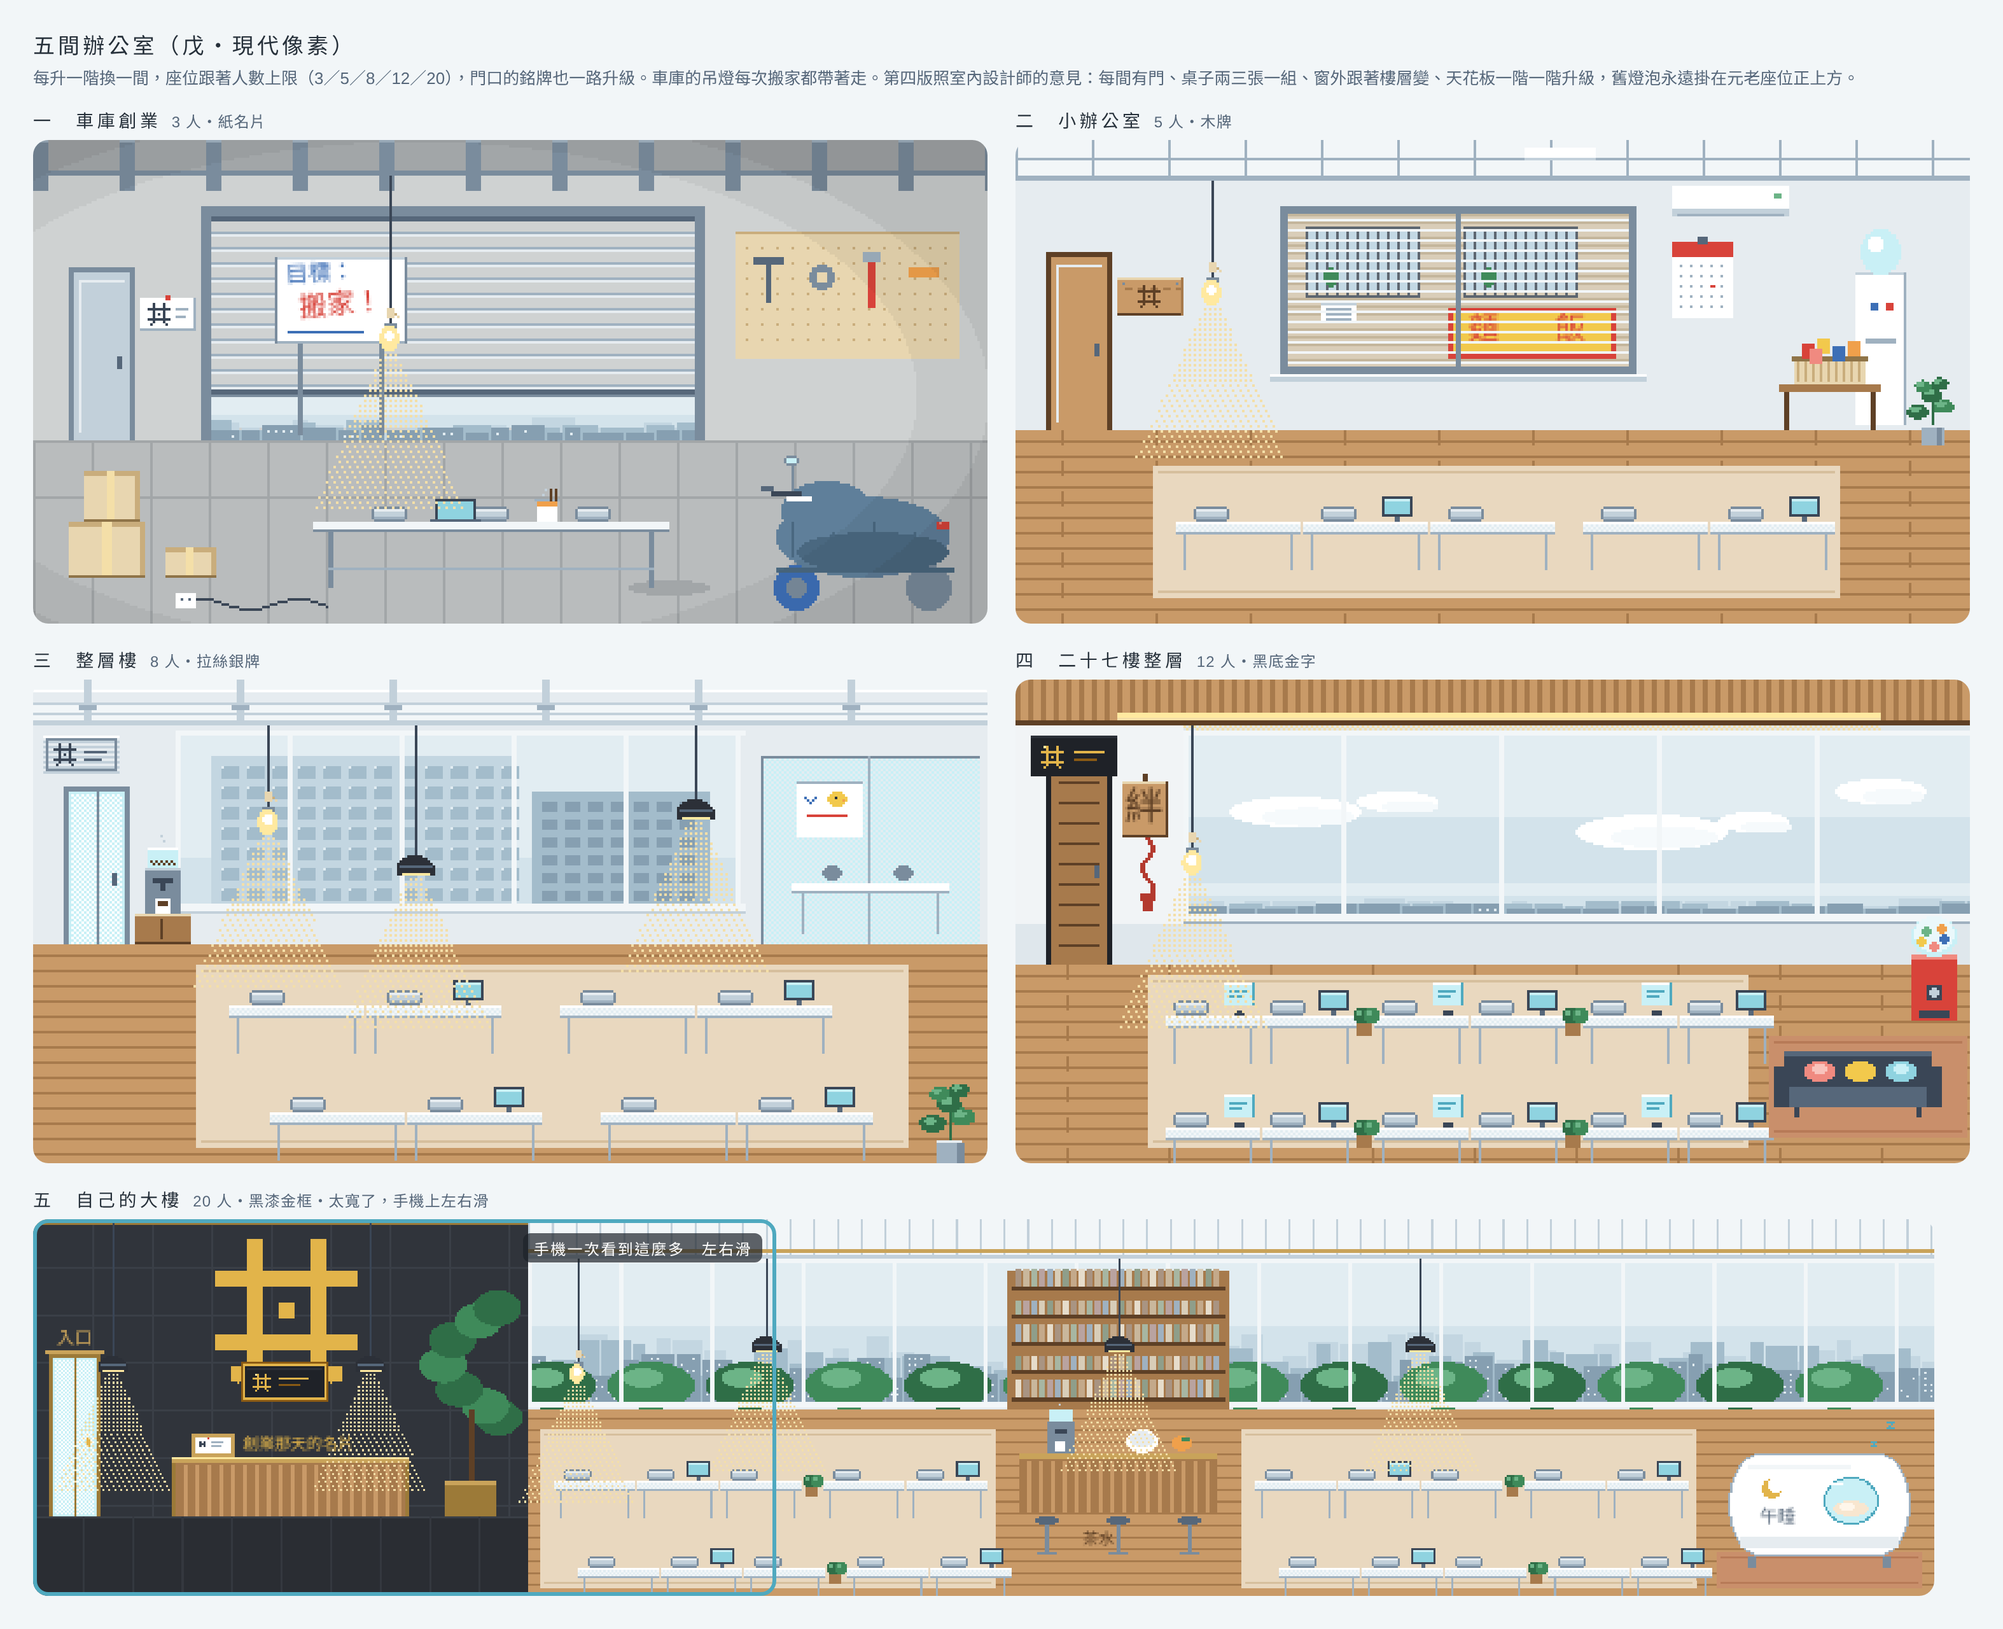
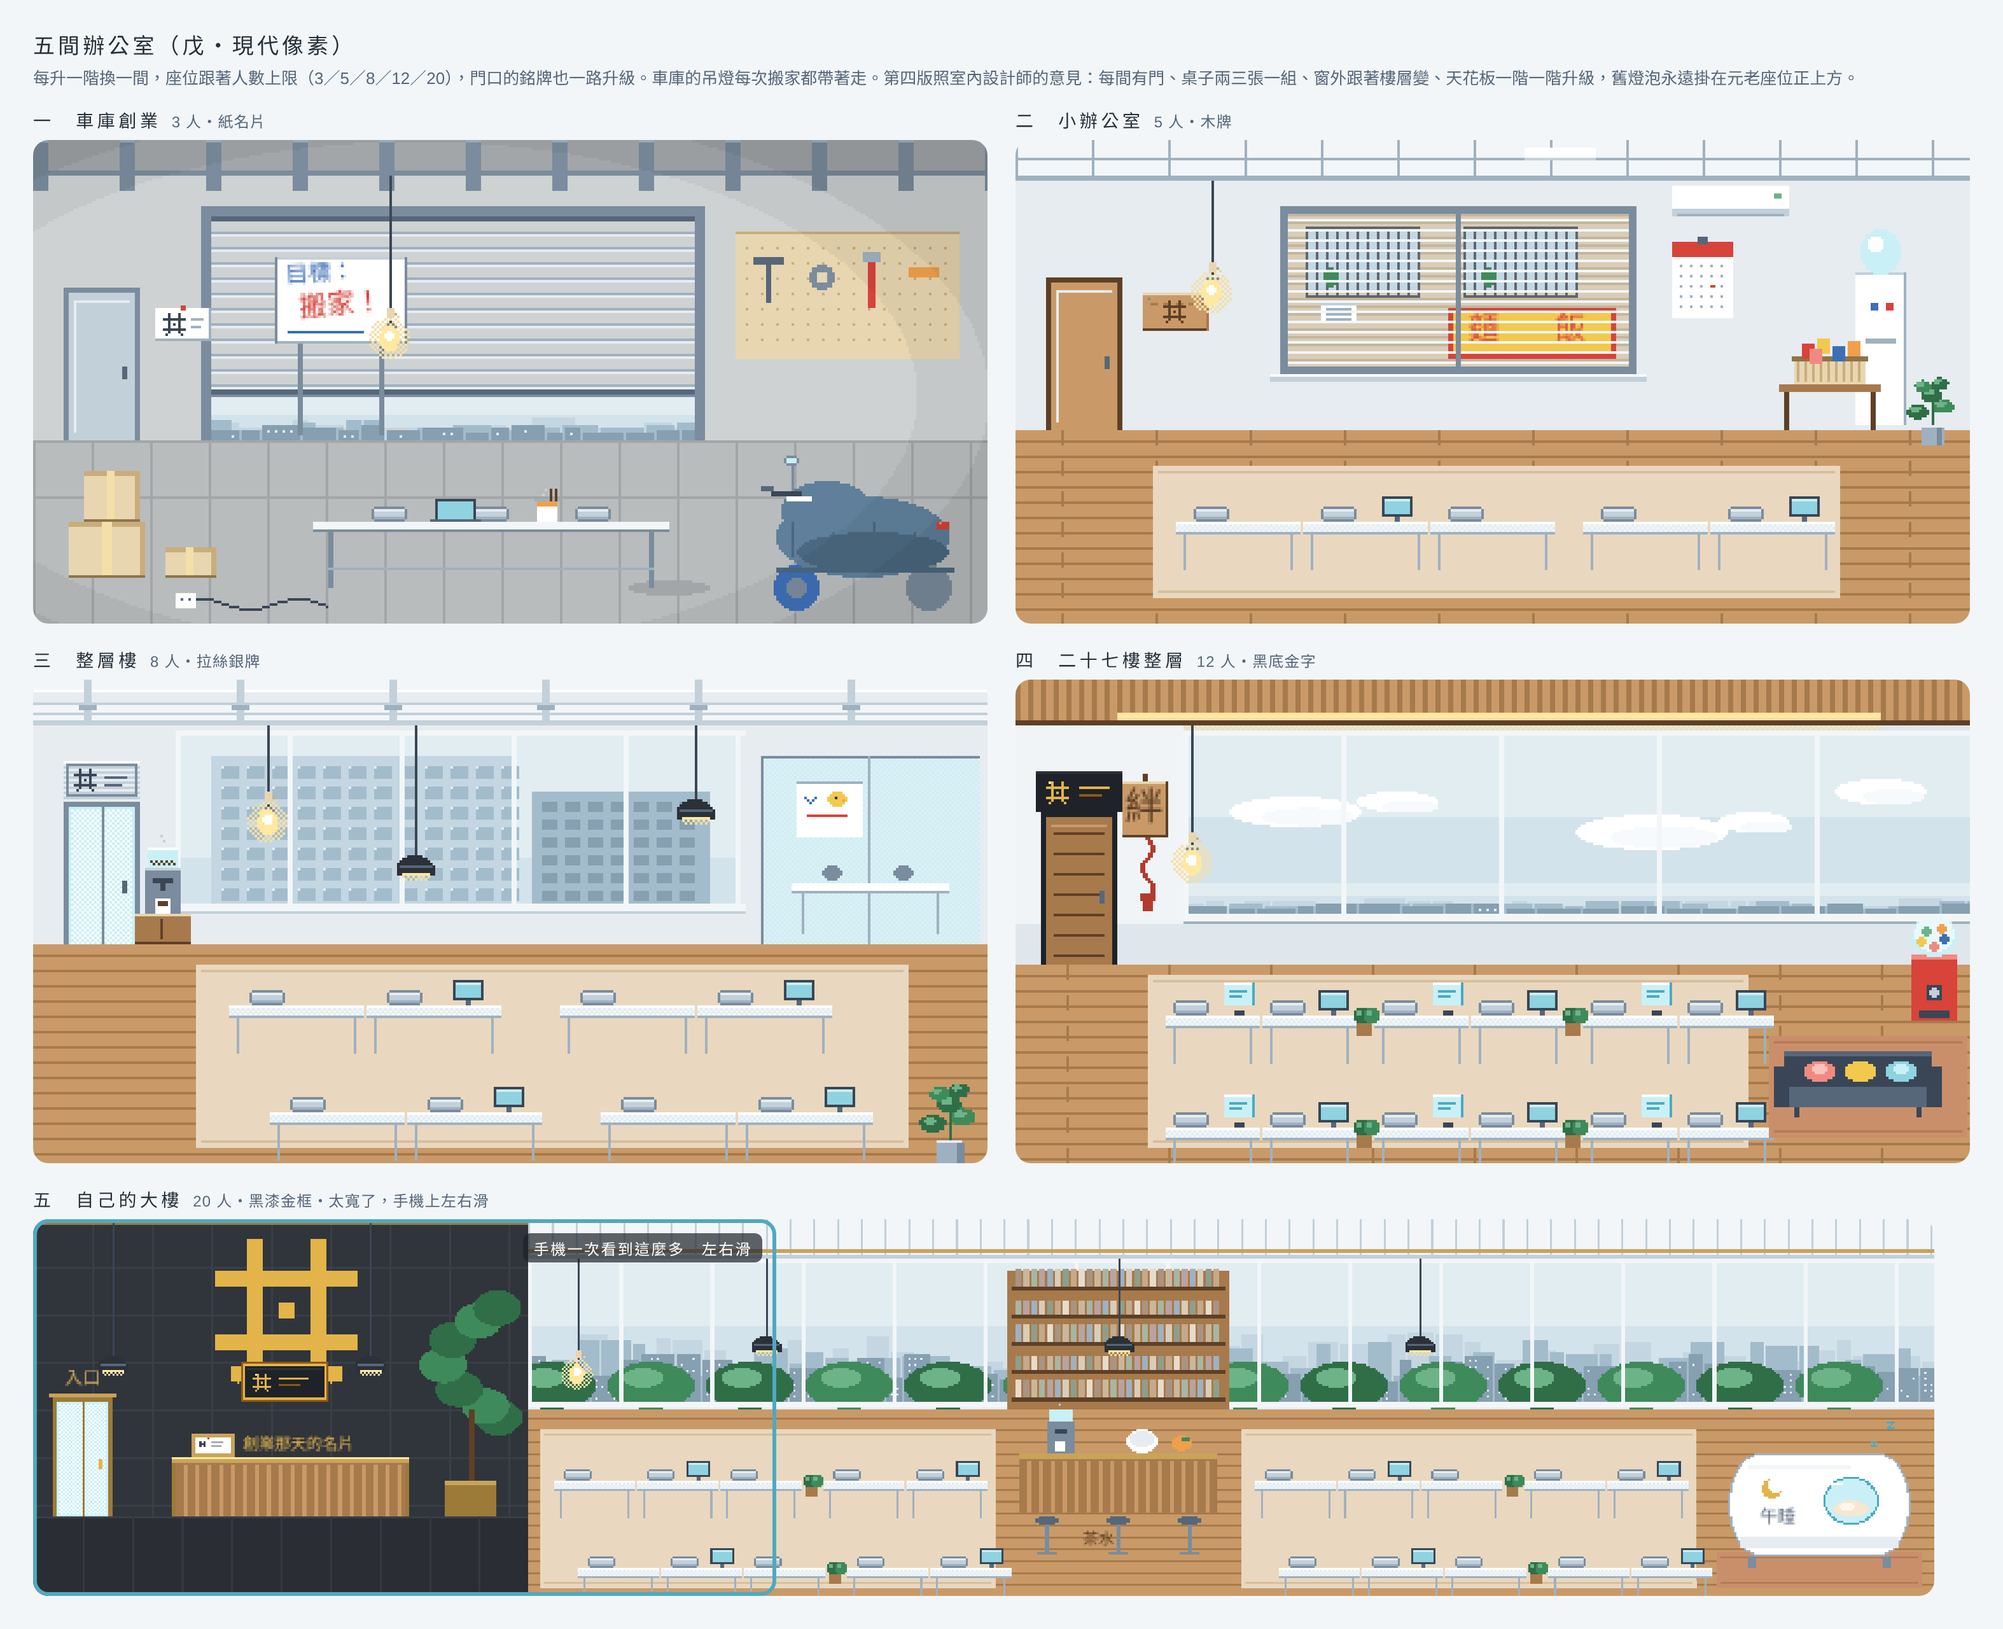
docs: offices door proportions, remove light cones
Claude-Session: https://claude.ai/code/session_01DfELKGAuUeHGLNNJha5AAX

diff --git a/docs/plans/company/office5.html b/docs/plans/company/office5.html
@@ -57,9 +57,10 @@ function stage(id, draw) {
     if (kind === 5) { R(a, b, 44, 20, C.au0); R(a + 1, b + 1, 42, 18, C.au1); R(a + 2, b + 2, 40, 16, C.bk); R(a + 3, b + 3, 38, 1, C.bk2); glyph(DON, a + 6, b + 6, C.au1); R(a + 19, b + 8, 15, 1, C.au1); R(a + 19, b + 11, 11, 1, C.au0);
       [[-3, 9], [44, 9]].forEach(([dx, dy]) => { px(a + dx + 1, b + dy - 1, C.au1); R(a + dx, b + dy, 3, 1, C.au1); px(a + dx + 1, b + dy + 1, C.au1); }); px(a + 7, b + 6, C.au2); }
   };
-  const cone = (lx, y0, n) => { for (let j = y0; j < y0 + n; j++) { const half = 3 + (j - y0) * .45, step = j - y0 < 30 ? 2 : 3; for (let i = Math.round(lx - half); i <= lx + half; i++) if ((i + j) % step === 0 && j % 2 === 0) px(i, j, C.warm); } };
-  const newLamp = (lx, top, len) => { R(lx, top, 1, len, C.ink2); el(lx, top + len + 3, 7, 4, C.bk2); R(lx - 7, top + len + 3, 15, 4, C.bk2); R(lx - 6, top + len + 3, 13, 1, C.ink3); R(lx - 5, top + len + 6, 11, 1, C.au2); cone(lx, top + len + 8, 60); };   // 新的吊燈：黑色燈罩
-  const lamp = (lx, top, len) => { R(lx, top, 1, len, C.ink2); R(lx - 2, top + len - 2, 5, 3, C.g1); R(lx - 1, top + len - 8, 3, 4, C.kr); px(lx + 2, top + len - 6, C.kr2); px(lx + 3, top + len - 5, C.kr); el(lx, top + len + 4, 4, 5, C.au2); el(lx, top + len + 3, 2, 2, C.wh);   // 車庫那顆舊燈泡（電線纏一圈牛皮紙膠帶），每次搬家都帶走
+  const halo = (cx, cy, r) => { for (let j = Math.floor(cy - r); j <= cy + r; j++) for (let i = Math.floor(cx - r); i <= cx + r; i++) { const d = Math.hypot(i + .5 - cx, j + .5 - cy); if (d <= r && d > 4 && (i + j) % 2 === 0) px(i, j, C.warm); } };   // 燈泡旁邊一小圈圓圓的光暈
+  const cone = () => {};   // 往下打的點點光線不畫了（使用者：燈光的光線很多餘）
+  const newLamp = (lx, top, len) => { R(lx, top, 1, len, C.ink2); el(lx, top + len + 3, 7, 4, C.bk2); R(lx - 7, top + len + 3, 15, 4, C.bk2); R(lx - 6, top + len + 3, 13, 1, C.ink3); R(lx - 5, top + len + 6, 11, 1, C.au2); dither(lx - 5, top + len + 7, 11, 2, C.warm); };   // 新的吊燈：黑色燈罩
+  const lamp = (lx, top, len) => { R(lx, top, 1, len, C.ink2); R(lx - 2, top + len - 2, 5, 3, C.g1); R(lx - 1, top + len - 8, 3, 4, C.kr); px(lx + 2, top + len - 6, C.kr2); px(lx + 3, top + len - 5, C.kr); halo(lx, top + len + 4, 8); el(lx, top + len + 4, 4, 5, C.au2); el(lx, top + len + 3, 2, 2, C.wh);   // 車庫那顆舊燈泡（電線纏一圈牛皮紙膠帶），每次搬家都帶走
     cone(lx, top + len + 9, 61); };
   const txt = (str, a, b, size, col, rot = 0) => { x.save(); x.translate(a, b); x.rotate(rot); x.fillStyle = col; x.font = `${size}px "Noto Sans TC", sans-serif`; x.textBaseline = 'top'; x.fillText(str, 0, 0); x.restore(); };
   const rug = (a, b, w, h, c1, c2) => { R(a, b, w, h, c1); R(a + 2, b + 2, w - 4, 1, c2); R(a + 2, b + h - 3, w - 4, 1, c2); };
@@ -71,7 +72,7 @@ function stage(id, draw) {
 const C2 = { ap: '#d9cdb8', ap2: '#c4b69c', grill: '#5d6670', tarp: '#5f7f9a', tarp2: '#4a6880', tire: '#2c3038', stone: '#30343b', stone2: '#3a3f47', brass: '#c9a35a', brass2: '#9c7a38' };
 const kit = K => { const { R, px, el, checker, dither, glyph, cushion, glassDesk, monitor, x, W } = K;
   return {
-    door: (a, top, bot, style) => { const w = 22;   // 門：框＋門板＋把手
+    door: (a, top0, bot, style) => { const w = 26, top = bot - 58;   // 門：框＋門板＋把手；固定正常比例（使用者：門比例很怪，原本又窄又高像置物櫃）
       const fr = style === 1 ? C.g1 : style === 2 ? C.wd0 : style === 3 ? C.g1 : style === 4 ? C.bk : C2.brass2, pn = style === 1 ? C.g3 : style === 2 ? C.wd : style === 3 ? C.cy2 : style === 4 ? C.wd2 : C.cy2;
       R(a - 2, top - 2, w + 4, bot - top + 2, fr); R(a, top, w, bot - top, pn);
       if (style === 3 || style === 5) { dither(a + 1, top + 1, w - 2, bot - top - 2, C.wh); R(a + w / 2, top, 1, bot - top, fr); } else if (style === 4) { R(a + 2, top + 3, w - 4, 1, C.wd); for (let j = top + 6; j < bot - 3; j += 8) R(a + 3, j, w - 6, 1, C.wd0); } else { R(a + 2, top + 3, w - 4, 1, C.g4); R(a + 2, top + 3, 1, bot - top - 6, C.g4); }
@@ -92,7 +93,7 @@ stage('s1', K => { const { R, px, el, checker, dither, city, cushion, sign, txt,
   R(66, 26, 198, 4, C.g1); R(66, 26, 4, 92, C.g1); R(260, 26, 4, 92, C.g1); R(70, 30, 190, 2, C.ink3);
   city(70, 100, 190, 18, 7); R(70, 98, 190, 2, C.ink3); R(70, 100, 190, 1, C.g1);
   R(0, 0, W, 12, C.cn2); for (let i = 0; i < W; i += 34) { R(i, 0, 6, 20, C.g1); R(i, 0, 6, 1, C.g2); } R(0, 12, W, 2, C.g1);   // 裸露的低樑
-  Q.door(16, 52, 118, 1); sign(42, 62, 1);   // 側門＋門邊的紙名片
+  Q.door(14, 52, 118, 1); sign(48, 66, 1);   // 側門＋門邊的紙名片
   R(0, 118, W, 72, C.cn); for (let i = 0; i < W; i += 23) R(i, 118, 1, 72, C.cn2); R(0, 118, W, 1, C.cn2); R(0, 140, W, 1, C.cn2);
   el(250, 176, 16, 3, C.cn2);
   R(276, 36, 88, 50, C.kr); R(276, 36, 88, 1, C.kr2); for (let j = 42; j < 84; j += 6) for (let i = 280; i < 362; i += 6) px(i, j, C.kr2);   // 洞洞板工具牆
@@ -109,7 +110,7 @@ stage('s1', K => { const { R, px, el, checker, dither, city, cushion, sign, txt,
   R(198, ty - 8, 8, 8, C.wh); R(198, ty - 8, 8, 2, C.o2); R(197, ty - 9, 10, 1, C.g2); R(203, ty - 13, 1, 5, C.wd0); R(205, ty - 13, 1, 5, C.wd0); px(200, ty - 11, C.g3); px(201, ty - 13, C.g3);
   for (let i = 60; i < 116; i++) px(i, 182 + Math.round(Math.sin(i / 6) * 2), C.ink2); R(56, 178, 8, 6, C.wh); px(58, 180, C.ink3); px(61, 180, C.ink3);
   Q.vignette(150, 100, 70, 130, .74);   // 四角壓暗，燈泡那一圈最亮
-  R(140, 14, 1, 60, C.ink2); R(138, 72, 5, 3, C.g1); R(139, 66, 3, 4, C.kr); px(142, 68, C.kr2); px(143, 69, C.kr); el(140, 78, 4, 5, C.au2); el(140, 77, 2, 2, C.wh); cone(140, 84, 62);   // 舊燈泡：元老位正上方
+  R(140, 14, 1, 60, C.ink2); R(138, 72, 5, 3, C.g1); R(139, 66, 3, 4, C.kr); px(142, 68, C.kr2); px(143, 69, C.kr); for (let j = 70; j <= 86; j++) for (let i = 132; i <= 148; i++) { const d = Math.hypot(i + .5 - 140, j + .5 - 78); if (d <= 8 && d > 4 && (i + j) % 2 === 0) px(i, j, C.warm); } el(140, 78, 4, 5, C.au2); el(140, 77, 2, 2, C.wh);   // 舊燈泡：元老位正上方
 });
 
 // ===== 二　小辦公室：輕鋼架天花板＋一片平板燈、老公寓二樓（窗外對面是鐵窗和招牌）、分離式冷氣、門＋木牌、三張一組＋兩張一組 =====
@@ -124,7 +125,7 @@ stage('s2', K => { const { R, px, el, checker, dither, plant, sign, lamp, txt, r
   for (let j = 31; j < 88; j += 4) R(107, j, 134, 1, C.g5); R(173, 29, 2, 60, C.g1);   // 這邊的百葉
   R(100, 92, 148, 3, C.g3); R(100, 92, 148, 1, C.wh);
   R(258, 18, 46, 12, C.wh); R(258, 27, 46, 3, C.g3); R(260, 29, 42, 1, C.g2); R(298, 21, 3, 2, C.gr2);   // 分離式冷氣
-  Q.door(14, 46, 114, 2); sign(40, 54, 2);   // 門＋木牌
+  Q.door(14, 46, 114, 2); sign(50, 60, 2);   // 門＋木牌
   R(258, 40, 24, 30, C.wh); R(258, 40, 24, 6, C.red); R(268, 38, 4, 3, C.ink3); for (let j = 49; j < 68; j += 4) for (let i = 261; i < 280; i += 4) px(i, j, C.g2); px(273, 57, C.red); px(274, 57, C.red);   // 月曆
   R(330, 52, 20, 60, C.wh); R(330, 52, 20, 1, C.g3); R(349, 52, 1, 60, C.g2); el(340, 44, 8, 9, C.cy2); el(338, 41, 3, 3, C.wh); R(336, 64, 3, 3, C.b1); R(342, 64, 3, 3, C.red); R(334, 78, 12, 2, C.g2);   // 飲水機
   R(0, 114, W, 76, C.wd); for (let j = 118; j < H; j += 6) R(0, j, W, 1, C.wd2); for (let i = 0; i < W; i += 37) for (let j = 114; j < H; j += 12) R(i + (j % 24 ? 18 : 0), j, 1, 6, C.wd2);
@@ -145,7 +146,7 @@ stage('s3', K => { const { R, px, el, checker, dither, city, plant, sign, lamp, 
   R(70, 30, 120, 58, C.c3); for (let j = 34; j < 88; j += 8) for (let i = 74; i < 186; i += 10) { R(i, j, 7, 5, C.c1); px(i, j, C.sky3); }   // 對面大樓的窗格
   R(196, 44, 70, 44, C.c1); for (let j = 48; j < 88; j += 7) for (let i = 200; i < 262; i += 9) R(i, j, 6, 4, C.c2);
   for (let i = 56; i < 280; i += 44) R(i, 22, 2, 66, C.g5); R(56, 20, 224, 2, C.g5); R(56, 88, 224, 3, C.g5); R(56, 91, 224, 1, C.g3);
-  Q.door(14, 44, 108, 3); sign(4, 22, 3);   // 玻璃門＋門上方的拉絲銀牌
+  Q.door(14, 44, 108, 3); sign(12, 32, 3);   // 玻璃門＋門上方的拉絲銀牌
   // 玻璃會議室（右邊）
   R(286, 30, 86, 74, C.cy2); dither(286, 30, 86, 74, C.sky3); R(286, 30, 86, 1, C.g1); R(286, 30, 1, 74, C.g1); R(328, 30, 1, 74, C.g2);
   R(300, 40, 26, 22, C.wh); R(300, 40, 26, 1, C.g2); [[303, 46], [304, 47], [305, 48], [306, 47], [307, 46]].forEach(([a, b]) => px(a, b, C.b1)); el(316, 47, 4, 3, C.yl); px(315, 46, C.ink); px(318, 47, C.o2); R(304, 53, 16, 1, C.red);
@@ -171,7 +172,7 @@ stage('s4', K => { const { R, px, el, checker, dither, city, plant, sign, lamp, 
   [[110, 52, 26, 6], [150, 48, 16, 4], [250, 60, 30, 7], [290, 56, 14, 4], [340, 44, 18, 5]].forEach(([a, b, rx, ry]) => { el(a, b, rx, ry, C.wh); el(a + 5, b + 2, rx * .7, ry * .6, C.cl); });   // 雲就在眼前
   for (let i = 66; i < W; i += 62) R(i, 22, 2, 70, C.g5); R(66, 20, W - 66, 2, C.g5); R(66, 92, W - 66, 3, C.g5); R(66, 95, W - 66, 1, C.g2);
   R(0, 18, 66, 78, '#f1f4f6');
-  Q.door(14, 34, 112, 4); sign(6, 22, 4);
+  Q.door(12, 34, 112, 4); sign(8, 36, 4);
   R(42, 40, 18, 22, C.wd); R(42, 40, 18, 1, C.kr); R(59, 40, 1, 22, C.wd0); R(42, 61, 18, 1, C.wd0); txt('絆', 43, 43, 15, C.wd0); R(50, 37, 2, 3, C.wd0);   // 門邊亮亮的牆上一塊大一點的「絆」木牌
   for (let k = 0; k < 22; k++) { px(51 + Math.round(Math.sin(k / 2.5) * 2), 62 + k, '#b33a2f'); px(52 + Math.round(Math.sin(k / 2.5) * 2), 62 + k, '#b33a2f'); } R(49, 84, 6, 3, '#b33a2f'); R(50, 87, 4, 4, '#b33a2f');   // 朱色紅線垂下來、尾端一個小結
   R(0, 112, W, 78, C.wd); for (let j = 116; j < H; j += 6) R(0, j, W, 1, C.wd2); for (let i = 0; i < W; i += 40) for (let j = 112; j < H; j += 12) R(i + (j % 24 ? 20 : 0), j, 1, 6, C.wd2);
@@ -199,7 +200,7 @@ stage('s5', K => { const { R, px, el, checker, dither, glyph, city, plant, sign,
   // 大廳：挑高兩層（沒有天花板那一條）、黑石牆、入口大門
   R(0, 0, 250, H, C2.stone); for (let i = 0; i < 250; i += 30) R(i, 0, 1, 150, C2.stone2); for (let j = 0; j < 150; j += 24) R(0, j, 250, 1, C2.stone2);
   R(0, 0, 250, 3, C2.brass2);
-  Q.door(10, 70, 150, 5); R(6, 66, 30, 2, C2.brass); txt('入口', 12, 56, 9, C2.brass);   // 入口大門（黃銅框玻璃門）
+  Q.door(12, 70, 150, 5); R(8, 88, 34, 2, C2.brass); txt('入口', 16, 76, 9, C2.brass);   // 入口大門（黃銅框玻璃門）
   glyph(DON, 92, 10, C.au1, 8);   // 黑石上的金色「丼」
   sign(105, 72, 5);
   R(70, 120, 120, 30, C2.brass2); R(70, 120, 120, 3, C2.brass); R(72, 123, 116, 27, C.wd2); for (let i = 76; i < 186; i += 6) R(i, 124, 2, 26, C.wd); R(70, 120, 120, 1, C.au2);   // 接待櫃台（木頭＋黃銅檯面）

diff --git a/docs/plans/company/README.md b/docs/plans/company/README.md
@@ -73,3 +73,4 @@
   - **室內設計師**（AI 審稿員，台灣商業空間十多年）：五間都沒有門（銘牌只好貼玻璃上）、桌子全排一直線面向鏡頭像考場；車庫亮度太平均、右半邊太空；小辦公室五人公司應該在老公寓二三樓、窗外卻是高樓；整層樓木條牆把窗切一半像柵欄；二十七樓沙發畫在窗台高度、扭蛋機擋桌子、十二人只有兩盞燈；大樓只是二十七樓拉長、大廳沒櫃台沒入口。層次表：天花板 車庫裸露低樑 → 輕鋼架 → 管線外露漆白 → 木格柵＋線型燈 → 大廳挑高；材質 水泥紙箱 → 木地板 → 木＋地毯 → 石材＋木 → 黑石＋黃銅；公共區 沒有 → 飲水機 → 咖啡＋會議室 → 休息區 → 大廳＋茶水吧＋午睡艙；舊燈泡永遠掛在元老座位正上方。**第四版照她的清單**：每間左邊有門、銘牌在門邊；桌子兩三張一組留走道（四五間用矮盆栽隔開）；窗外跟樓層變（二 對面老公寓鐵窗＋「麵／飯」招牌、三 對面大樓立面、四 雲在眼前、五 自己的屋頂花園）；天花板照層次表；車庫四角階梯式壓暗＋右邊一台蓋帆布的機車；小辦公室分離式冷氣；整層樓咖啡機放矮櫃上；二十七樓「絆」木牌在門柱上、沙發和扭蛋機在地上；大樓加寬到 960：入口黃銅玻璃門 → 挑高黑石大廳（金色丼字、接待櫃台、櫃台上裱框的車庫名片、大樹）→ 一區 → 茶水吧＋書牆 → 二區 → 午睡艙。
   - 妹妹看第四版：整體比上一版好（有門、一組一組像真的公司），最喜歡小辦公室窗外老公寓鐵窗＋麵飯招牌。被改壞：車庫四角暗成一整圈像監視器畫面、機車像藍色大石頭、絆木牌塞在黑門旁太小；還卡：書牆紅黃條紋像便利商店飲料櫃。改：車庫只有四個角落淡淡暗一點；帆布下露出把手、後照鏡、尾燈；二十七樓窗戶右挪、門邊留一段亮牆掛大一點的絆木牌＋朱色紅線垂下來打個結；書牆改成淡淡雜色、高低不一。
   - 妹妹：「可以定稿了！五間都想住，等角色坐進去！」**五間辦公室定稿（第四版）**。
+  - 使用者：「沒有人發現門比例很怪？燈光的光線很多餘？」——門原本寬 22、高 66～78（1:3.5，快是桌子的四倍，二十七樓那扇像柱子），妹妹、設計師和我都沒抓到。改成固定 26×58（約 1:2.2、桌子高度的 2.8 倍），銘牌跟著挪；拿掉往下打的點點光線，燈只留燈泡／燈罩＋一小圈圓光暈。**之後畫空間先對比例**：門 ≈ 桌子高度 2.8 倍、寬高 1:2.2；角色、桌子、門、窗擺在一起量過再給人看。對照 `office5-door-light.png`（上舊下新）。

diff --git a/changelog/2026-11.md b/changelog/2026-11.md
@@ -1413,3 +1413,7 @@
 
 ## 2026-11-25 12:10（台灣）　開公司：五間辦公室定稿（第四版）
 - 妹妹確認可以定稿。只是企劃，網站沒有變。
+
+## 2026-11-25 12:30（台灣）　開公司：門的比例、拿掉燈光的光線
+- 門原本又窄又高（像置物櫃、二十七樓那扇像柱子），改成正常比例，大約是桌子高度的 2.8 倍；門邊的銘牌跟著挪。
+- 吊燈往下打的點點光線拿掉了，只留燈泡旁一小圈光暈。對照 `docs/plans/company/office5-door-light.png`。只是企劃，網站沒有變。
